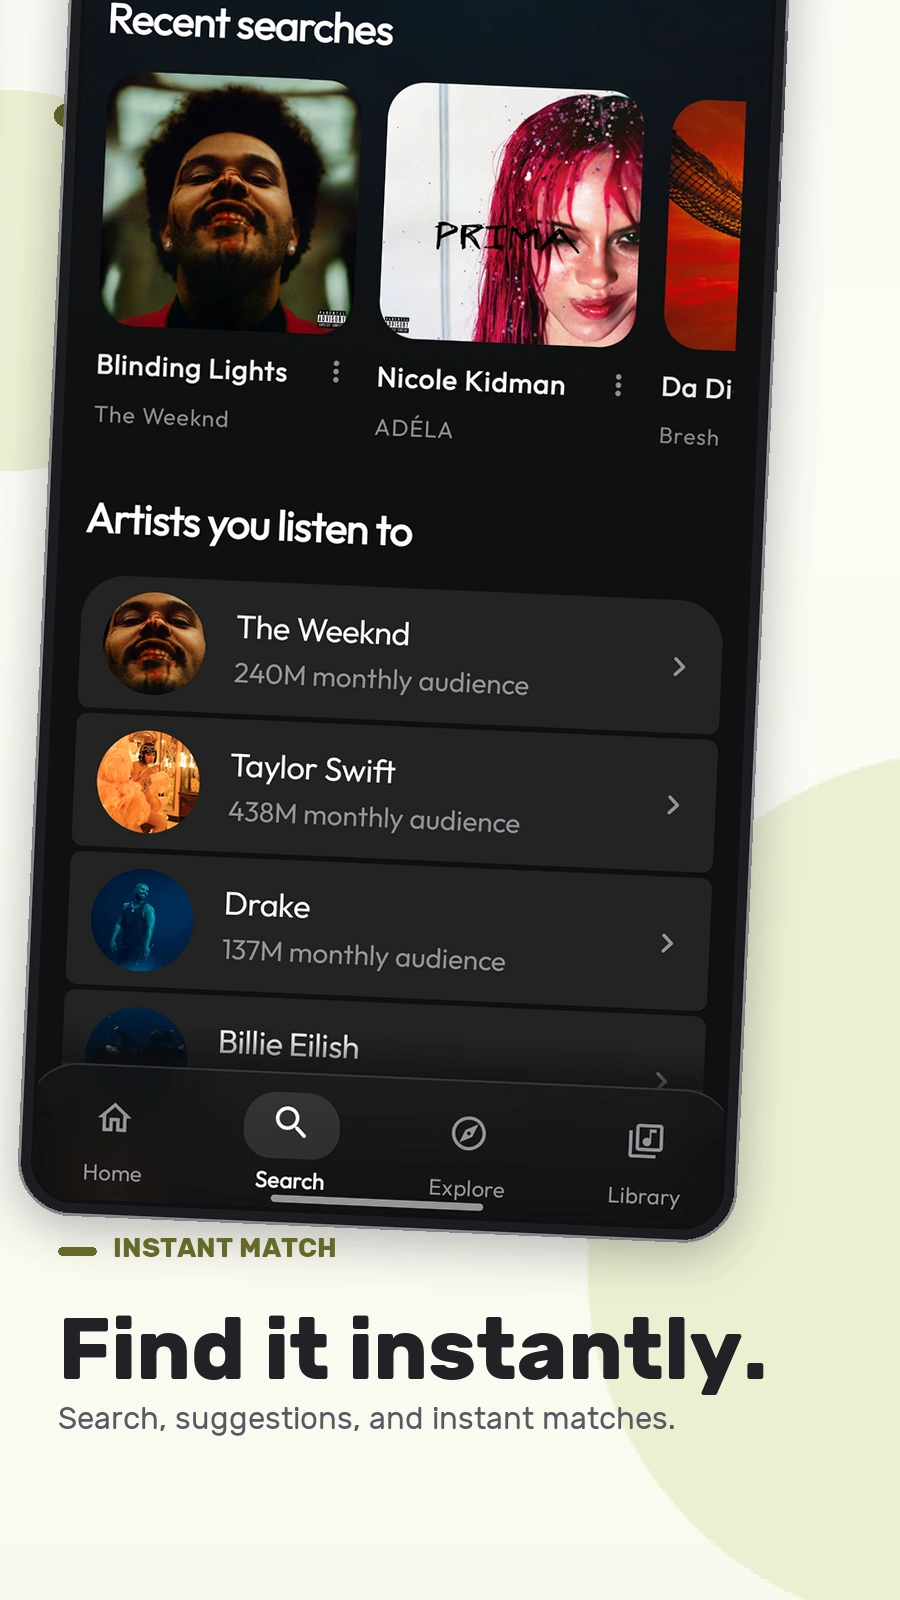
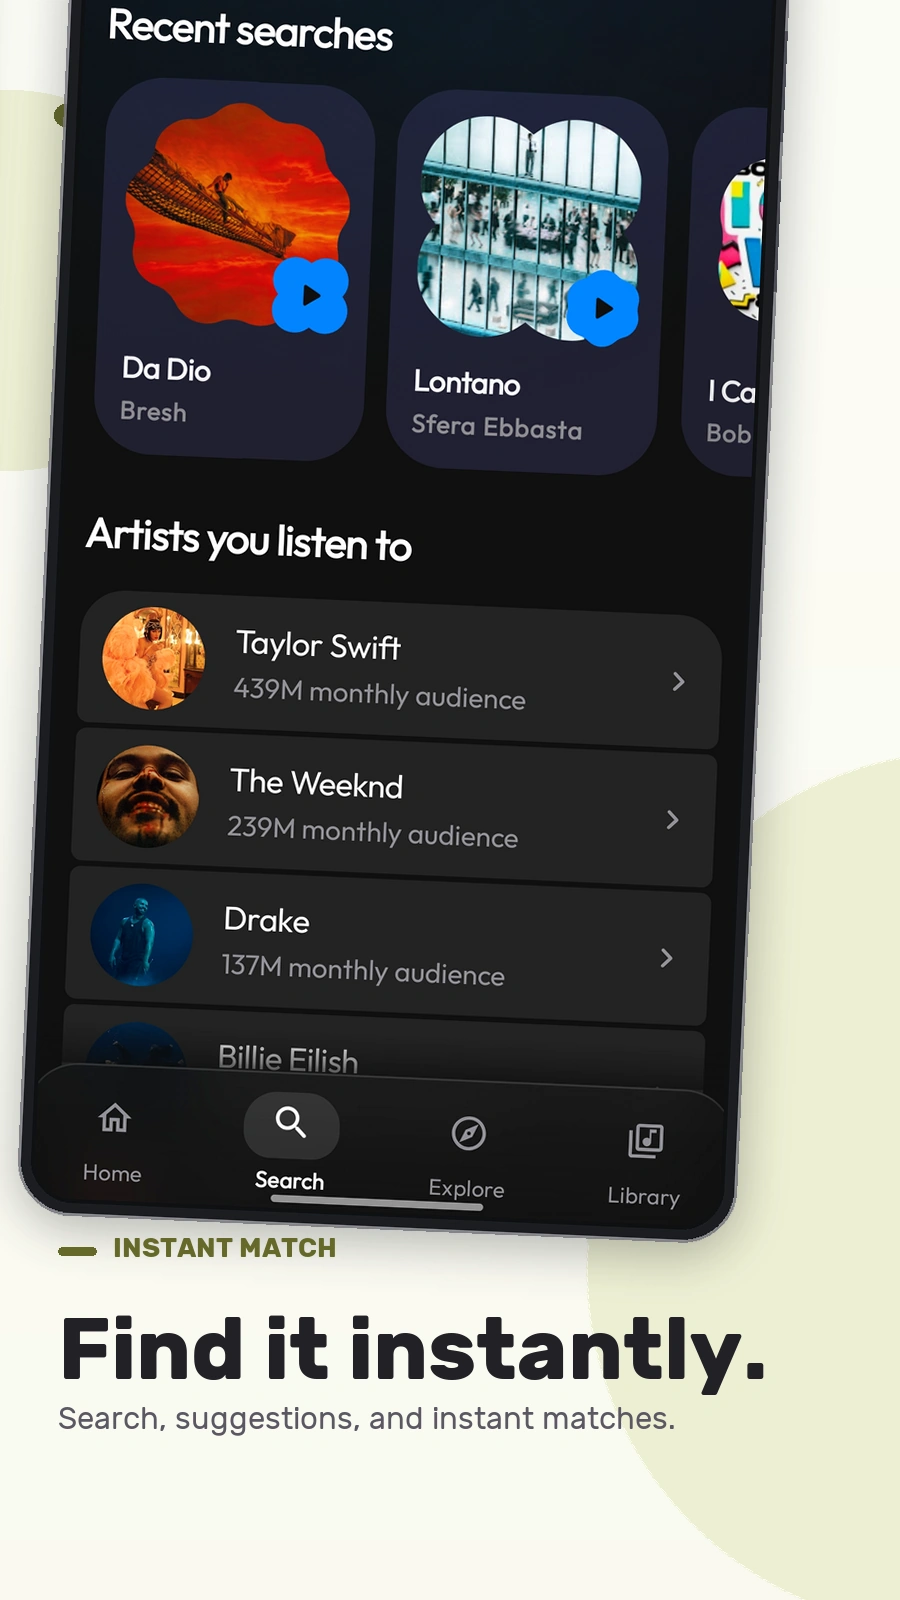
docs: update instant search showcase screenshot

diff --git a/scripts/generate_showcase_assets.py b/scripts/generate_showcase_assets.py
@@ -153,7 +153,7 @@ M3_MARKETING_COPY = {
     "Screenshot_20261010_132249_LEVYRA.jpg": "Moods, genres, and music worldwide.",
     "Screenshot_20261010_190726_LEVYRA.jpg": "Parametric EQ and bit-perfect output.",
     "Screenshot_20260926_194706_LEVYRA.jpg": "Artwork, credits, and complete tracklists.",
-    "Screenshot_20261010_145010_LEVYRA.jpg": "Search, suggestions, and instant matches.",
+    "Screenshot_20261013_111815_LEVYRA.jpg": "Search, suggestions, and instant matches.",
     "Screenshot_20261010_132136_LEVYRA.jpg": "Collections shaped around your taste.",
     "Screenshot_20260927_131943_LEVYRA.jpg": "See when and how you listen.",
     "Screenshot_20261012_193022_LEVYRA.jpg": "Your most-played music, always close.",
@@ -409,7 +409,7 @@ M3_SHOWCASE_SPECS = [
      (130, 60, 170), ["09_album.webp"]),
 
     # Card 10: Instant Search
-    ("Screenshot_20261010_145010_LEVYRA.jpg", "INSTANT MATCH", "Find it instantly.",
+    ("Screenshot_20261013_111815_LEVYRA.jpg", "INSTANT MATCH", "Find it instantly.",
      "Recent searches, suggestions, and\ninstant matching across your music.",
      (110, 50, 185), ["10_search.webp"]),
 

diff --git a/README.md b/README.md
@@ -125,11 +125,11 @@ Enhanced Audio is on by default and can be turned off in Audio Settings. Technic
 </p>
 
 <p align="center">
-  <a href="docs/assets/showcase/cards/01_home.webp"><img src="docs/assets/showcase/cards/01_home.webp?v=m3-soft-v2" width="200" alt="Levyra home and personalized radio" /></a><a href="docs/assets/showcase/cards/02_stay_with_the_song.webp"><img src="docs/assets/showcase/cards/02_stay_with_the_song.webp?v=m3-soft-v2" width="200" alt="Levyra offline downloads with local audio files, artwork, and metadata" /></a><a href="docs/assets/showcase/cards/03_now_playing.webp"><img src="docs/assets/showcase/cards/03_now_playing.webp?v=m3-soft-v2" width="200" alt="Levyra synchronized lyrics" /></a><a href="docs/assets/showcase/cards/04_player_deck.webp"><img src="docs/assets/showcase/cards/04_player_deck.webp?v=m3-soft-v2" width="200" alt="Levyra customizable player decks" /></a><br>
-  <a href="docs/assets/showcase/cards/05_explore_stage.webp"><img src="docs/assets/showcase/cards/05_explore_stage.webp?v=m3-soft-v2" width="200" alt="Levyra explore and fresh currents" /></a><a href="docs/assets/showcase/cards/06_levyra_mix_stage.webp"><img src="docs/assets/showcase/cards/06_levyra_mix_stage.webp?v=m3-soft-v2" width="200" alt="Levyra custom mix and live radio" /></a><a href="docs/assets/showcase/cards/07_genres.webp"><img src="docs/assets/showcase/cards/07_genres.webp?v=m3-soft-v2" width="200" alt="Levyra moods and genres" /></a><a href="docs/assets/showcase/cards/08_audio_tuning.webp"><img src="docs/assets/showcase/cards/08_audio_tuning.webp?v=m3-soft-v2" width="200" alt="Levyra audio tuning and playback engine" /></a><br>
-  <a href="docs/assets/showcase/cards/09_album.webp"><img src="docs/assets/showcase/cards/09_album.webp?v=m3-soft-v2" width="200" alt="Levyra album details and tracklist" /></a><a href="docs/assets/showcase/cards/10_search.webp"><img src="docs/assets/showcase/cards/10_search.webp?v=m3-soft-v2" width="200" alt="Levyra instant search and suggestions" /></a><a href="docs/assets/showcase/cards/11_collections.webp"><img src="docs/assets/showcase/cards/11_collections.webp?v=m3-soft-v2" width="200" alt="Levyra curated collections and playlists" /></a><a href="docs/assets/showcase/cards/12_listening_rhythm.webp"><img src="docs/assets/showcase/cards/12_listening_rhythm.webp?v=m3-soft-v2" width="200" alt="Levyra listening rhythm and habits" /></a><br>
-  <a href="docs/assets/showcase/cards/13_your_orbit.webp"><img src="docs/assets/showcase/cards/13_your_orbit.webp?v=m3-soft-v2" width="200" alt="Levyra orbit and favorite tracks" /></a><a href="docs/assets/showcase/cards/14_listening_pulse.webp"><img src="docs/assets/showcase/cards/14_listening_pulse.webp?v=m3-soft-v2" width="200" alt="Levyra private listening stats and charts" /></a><a href="docs/assets/showcase/cards/15_artist_playlists.webp"><img src="docs/assets/showcase/cards/15_artist_playlists.webp?v=m3-soft-v2" width="200" alt="Levyra artist playlists and collections" /></a><a href="docs/assets/showcase/cards/16_settings_vault.webp"><img src="docs/assets/showcase/cards/16_settings_vault.webp?v=m3-soft-v2" width="200" alt="Levyra settings and local vault backups" /></a><br>
-  <a href="docs/assets/showcase/cards/17_new_releases.webp"><img src="docs/assets/showcase/cards/17_new_releases.webp?v=m3-soft-v2" width="200" alt="Levyra new releases" /></a><a href="docs/assets/showcase/cards/18_artist_profile.webp"><img src="docs/assets/showcase/cards/18_artist_profile.webp?v=m3-soft-v2" width="200" alt="Levyra artist profile and discography" /></a><a href="docs/assets/showcase/cards/19_top_50.webp"><img src="docs/assets/showcase/cards/19_top_50.webp?v=m3-soft-v2" width="200" alt="Levyra Top 50 charts" /></a><a href="docs/assets/showcase/cards/20_levyra_jam.webp"><img src="docs/assets/showcase/cards/20_levyra_jam.webp?v=m3-soft-v2" width="200" alt="Levyra Jam collaborative listening on local Wi-Fi" /></a>
+  <a href="docs/assets/showcase/cards/01_home.webp"><img src="docs/assets/showcase/cards/01_home.webp?v=m3-soft-v3" width="200" alt="Levyra home and personalized radio" /></a><a href="docs/assets/showcase/cards/02_stay_with_the_song.webp"><img src="docs/assets/showcase/cards/02_stay_with_the_song.webp?v=m3-soft-v3" width="200" alt="Levyra offline downloads with local audio files, artwork, and metadata" /></a><a href="docs/assets/showcase/cards/03_now_playing.webp"><img src="docs/assets/showcase/cards/03_now_playing.webp?v=m3-soft-v3" width="200" alt="Levyra synchronized lyrics" /></a><a href="docs/assets/showcase/cards/04_player_deck.webp"><img src="docs/assets/showcase/cards/04_player_deck.webp?v=m3-soft-v3" width="200" alt="Levyra customizable player decks" /></a><br>
+  <a href="docs/assets/showcase/cards/05_explore_stage.webp"><img src="docs/assets/showcase/cards/05_explore_stage.webp?v=m3-soft-v3" width="200" alt="Levyra explore and fresh currents" /></a><a href="docs/assets/showcase/cards/06_levyra_mix_stage.webp"><img src="docs/assets/showcase/cards/06_levyra_mix_stage.webp?v=m3-soft-v3" width="200" alt="Levyra custom mix and live radio" /></a><a href="docs/assets/showcase/cards/07_genres.webp"><img src="docs/assets/showcase/cards/07_genres.webp?v=m3-soft-v3" width="200" alt="Levyra moods and genres" /></a><a href="docs/assets/showcase/cards/08_audio_tuning.webp"><img src="docs/assets/showcase/cards/08_audio_tuning.webp?v=m3-soft-v3" width="200" alt="Levyra audio tuning and playback engine" /></a><br>
+  <a href="docs/assets/showcase/cards/09_album.webp"><img src="docs/assets/showcase/cards/09_album.webp?v=m3-soft-v3" width="200" alt="Levyra album details and tracklist" /></a><a href="docs/assets/showcase/cards/10_search.webp"><img src="docs/assets/showcase/cards/10_search.webp?v=m3-soft-v3" width="200" alt="Levyra instant search and suggestions" /></a><a href="docs/assets/showcase/cards/11_collections.webp"><img src="docs/assets/showcase/cards/11_collections.webp?v=m3-soft-v3" width="200" alt="Levyra curated collections and playlists" /></a><a href="docs/assets/showcase/cards/12_listening_rhythm.webp"><img src="docs/assets/showcase/cards/12_listening_rhythm.webp?v=m3-soft-v3" width="200" alt="Levyra listening rhythm and habits" /></a><br>
+  <a href="docs/assets/showcase/cards/13_your_orbit.webp"><img src="docs/assets/showcase/cards/13_your_orbit.webp?v=m3-soft-v3" width="200" alt="Levyra orbit and favorite tracks" /></a><a href="docs/assets/showcase/cards/14_listening_pulse.webp"><img src="docs/assets/showcase/cards/14_listening_pulse.webp?v=m3-soft-v3" width="200" alt="Levyra private listening stats and charts" /></a><a href="docs/assets/showcase/cards/15_artist_playlists.webp"><img src="docs/assets/showcase/cards/15_artist_playlists.webp?v=m3-soft-v3" width="200" alt="Levyra artist playlists and collections" /></a><a href="docs/assets/showcase/cards/16_settings_vault.webp"><img src="docs/assets/showcase/cards/16_settings_vault.webp?v=m3-soft-v3" width="200" alt="Levyra settings and local vault backups" /></a><br>
+  <a href="docs/assets/showcase/cards/17_new_releases.webp"><img src="docs/assets/showcase/cards/17_new_releases.webp?v=m3-soft-v3" width="200" alt="Levyra new releases" /></a><a href="docs/assets/showcase/cards/18_artist_profile.webp"><img src="docs/assets/showcase/cards/18_artist_profile.webp?v=m3-soft-v3" width="200" alt="Levyra artist profile and discography" /></a><a href="docs/assets/showcase/cards/19_top_50.webp"><img src="docs/assets/showcase/cards/19_top_50.webp?v=m3-soft-v3" width="200" alt="Levyra Top 50 charts" /></a><a href="docs/assets/showcase/cards/20_levyra_jam.webp"><img src="docs/assets/showcase/cards/20_levyra_jam.webp?v=m3-soft-v3" width="200" alt="Levyra Jam collaborative listening on local Wi-Fi" /></a>
 </p>
 
 </div>
